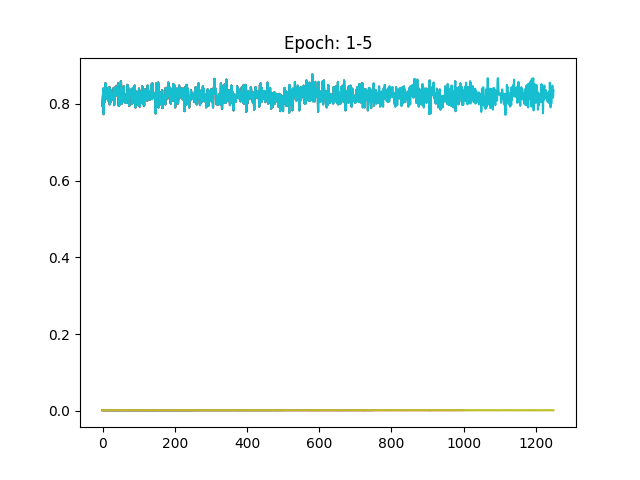
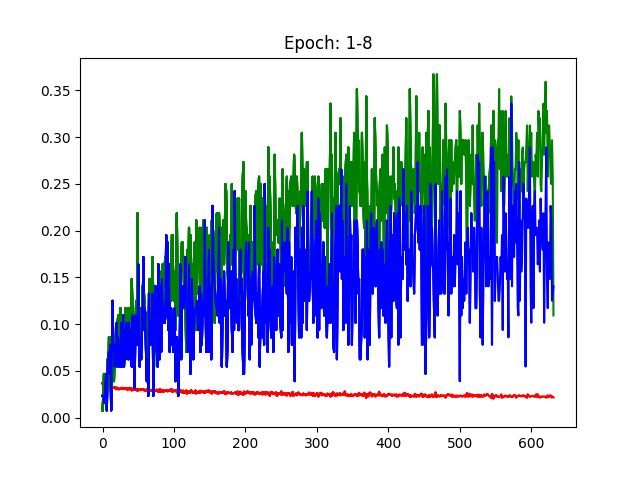
idk

diff --git a/lotsaconvs/res2.py b/lotsaconvs/res2.py
@@ -1,0 +1,132 @@
+import sys
+import time
+import os
+import torch
+import torch.nn as nn
+from torch.utils.data import DataLoader
+from torchvision.datasets import CIFAR100
+from torchvision.transforms import ToTensor
+import matplotlib.pyplot as plt
+
+class ResBlock(nn.Module):
+    def __init__(self, inc, outc, k, p):
+        super().__init__()
+        self.layer_stack = nn.Sequential(
+            nn.Conv2d(in_channels=inc, out_channels=outc, kernel_size=k, stride=1, padding=p),
+            nn.BatchNorm2d(outc),
+            nn.ReLU()
+        )
+        self.shortcut_transform = nn.Sequential(
+            nn.Conv2d(in_channels=inc, out_channels=outc, kernel_size=1, stride=1, padding=0),
+            nn.BatchNorm2d(outc),
+            nn.ReLU()
+        )
+        self.relu = nn.ReLU()
+    def forward(self, x):
+        x = torch.concat((self.layer_stack(x), self.shortcut_transform(x)), dim=1)
+        return x
+
+class DaNet(nn.Module):
+    def __init__(self, path):
+        super().__init__()
+        self.layer_stack = nn.Sequential(
+
+            ResBlock(3, 64, 5, 2),
+            nn.ReLU(),
+            nn.MaxPool2d(kernel_size=2, stride=2),
+
+            ResBlock(128, 256, 3, 1),
+            nn.ReLU(),
+            nn.MaxPool2d(kernel_size=2, stride=2),
+
+            nn.AdaptiveAvgPool2d((1,1)),
+
+            nn.Flatten(),
+            nn.Linear(in_features=512, out_features=100),
+            nn.LogSoftmax(dim=1)
+        )
+        self.path = path
+        if os.path.exists(path) and len(sys.argv) == 2:
+            self.load_state_dict(torch.load(self.path))
+            print("Loaded existing model:", self.path)
+        elif len(sys.argv) == 3 and sys.argv[2] == "new":
+            torch.save(self.state_dict(), self.path)
+            print("Created new model:", self.path)
+    def forward(self, x):
+        return self.layer_stack(x)
+
+if __name__ == "__main__":
+
+    BS = 128
+    EVAL_BS = 128
+    LR = 0.1
+    MOM = 0.0
+
+    N_EPOCHS = 20
+
+    device = torch.device("cuda")
+
+    train_dataloader = DataLoader(CIFAR100(root="../datasets/", train=True, download=False, transform=ToTensor()),
+                                  batch_size=BS, shuffle=True)
+    test_dataloader = DataLoader(CIFAR100(root="../datasets/", train=False, download=False, transform=ToTensor()),
+                                  batch_size=EVAL_BS, shuffle=True)
+
+    model = DaNet("nets/res_cifar100_8.pt").to(device)
+    print(model)
+    model.train()
+
+    optim = torch.optim.SGD(params=model.parameters(), lr=LR, momentum=MOM)
+    criterion = nn.NLLLoss()
+
+    losses = []
+    accs = []
+    eval_accs = []
+
+    if sys.argv[1] == "train":
+        start_time = time.time()
+        for n_epoch in range(N_EPOCHS):
+            plt.title(f"Epoch: 1-{n_epoch+1}")
+            for n_batch, (x, y) in enumerate(train_dataloader):
+
+                # train
+                model.train()
+                optim.zero_grad()
+                x = x.to(device)
+                pred = model(x)
+                loss = criterion(pred, y.to(device))
+                loss.backward()
+                optim.step()
+                # ----
+
+                # eval
+                model.eval()
+                acc = (pred.detach().cpu().argmax(dim=1)==y).sum().item()
+                x_eval, y_eval = next(iter(test_dataloader))
+                pred_eval = model(x_eval.to(device))
+                eval_acc = (pred_eval.detach().cpu().argmax(dim=1)==y_eval).sum().item()
+                if n_batch % 2 == 0:
+                    print(f"Epoch: {n_epoch+1:8}, Batch: {n_batch:8}/{len(train_dataloader):4} --- Loss: {loss.detach().cpu().item()/float(BS):20f}, Acc: {acc/float(BS):10f} {acc:4}/{BS}, Eval Acc: {eval_acc:4}/{EVAL_BS} {eval_acc/float(EVAL_BS):10f}")
+                if n_batch % 5 == 0:
+                    losses.append(loss.detach().cpu().item()/BS)
+                    eval_accs.append(eval_acc/float(EVAL_BS))
+                    accs.append(acc/BS)
+                # ----
+
+            plt.plot(losses, 'r')
+            plt.plot(accs, 'g')
+            plt.plot(eval_accs, 'b')
+            plt.savefig("recent_plot.png")
+            print("Model saved:", model.path)
+            torch.save(model.state_dict(), model.path)
+
+        end_time = time.time()
+        print(f"Execution time: {end_time - start_time} seconds.")
+    elif sys.argv[1] == "eval":
+        model.eval()
+        score = 0
+        for i, (x, y) in enumerate(test_dataloader):
+            preds = model(x.to(device))
+            acc = (preds.detach().cpu().argmax(dim=1)==y).sum().item()
+            print(f"Batch: {i}, Acc:{acc}/{len(y)}")
+            score += acc
+        print(score, '/', len(test_dataloader.dataset.targets))
